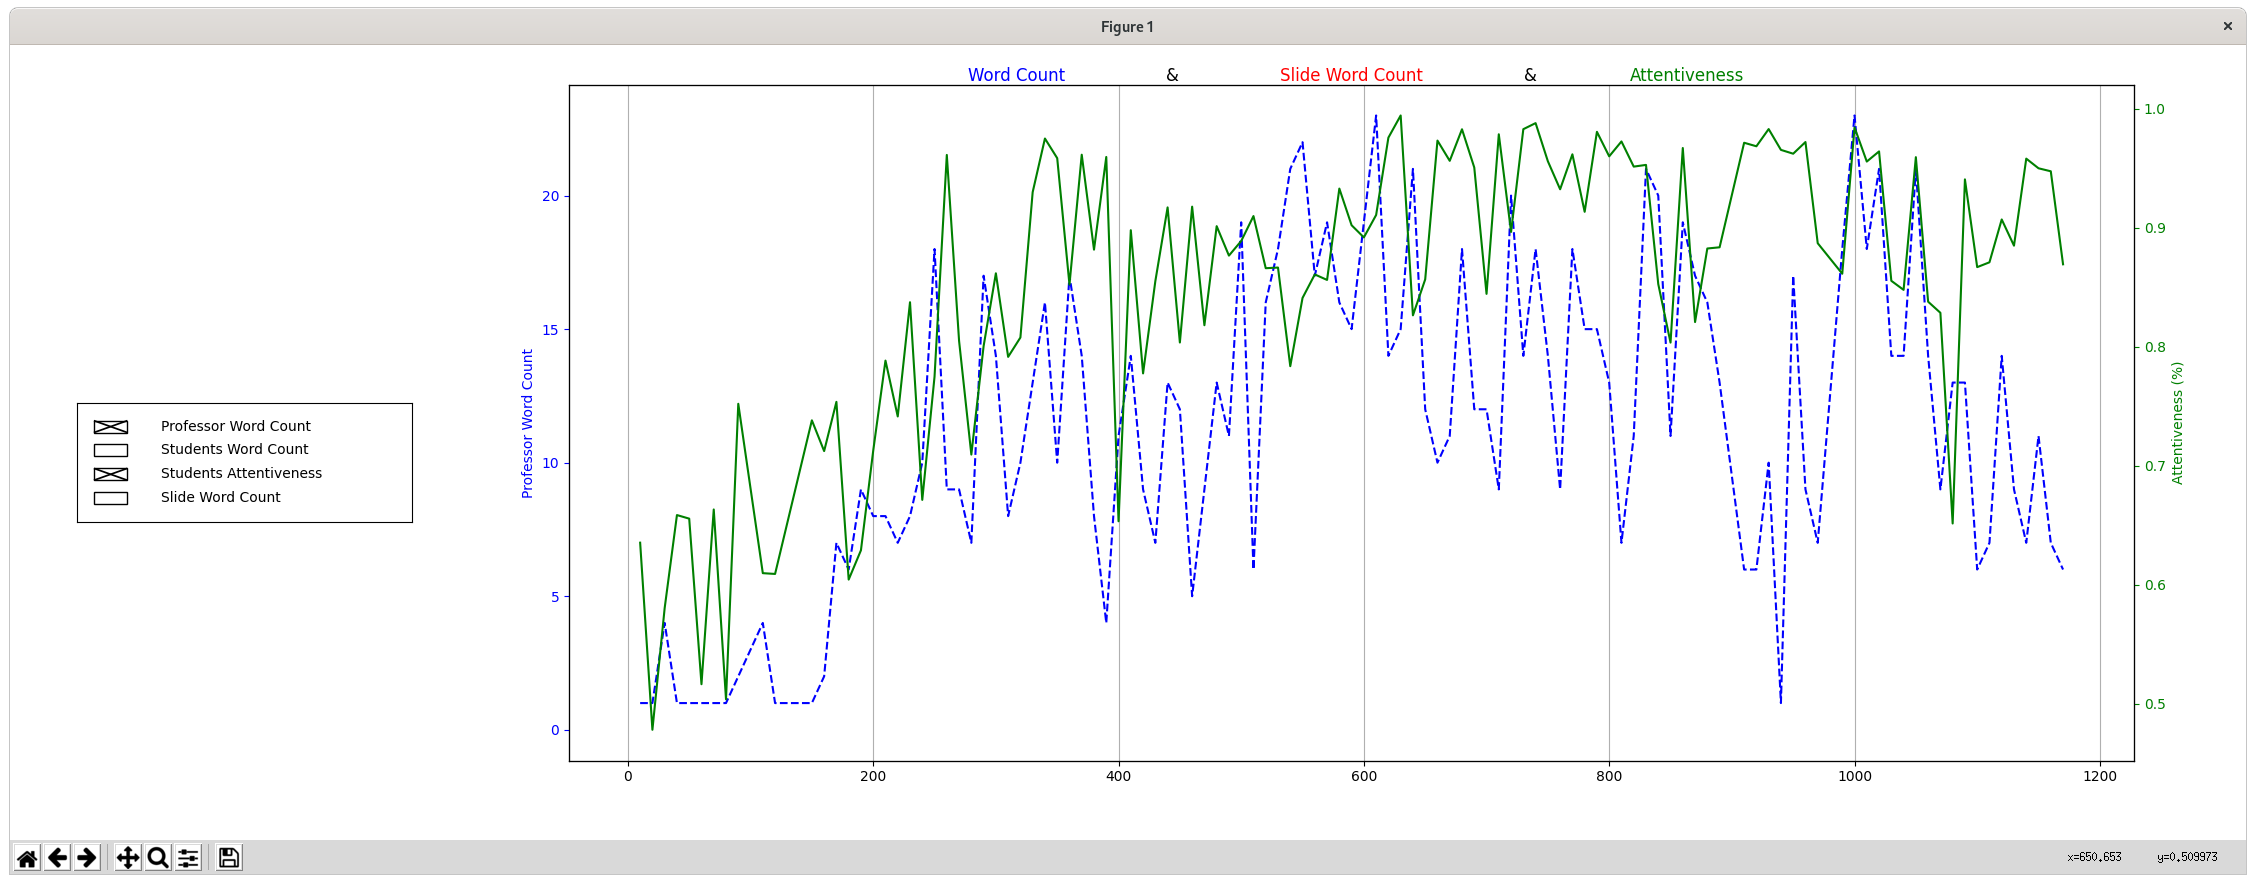
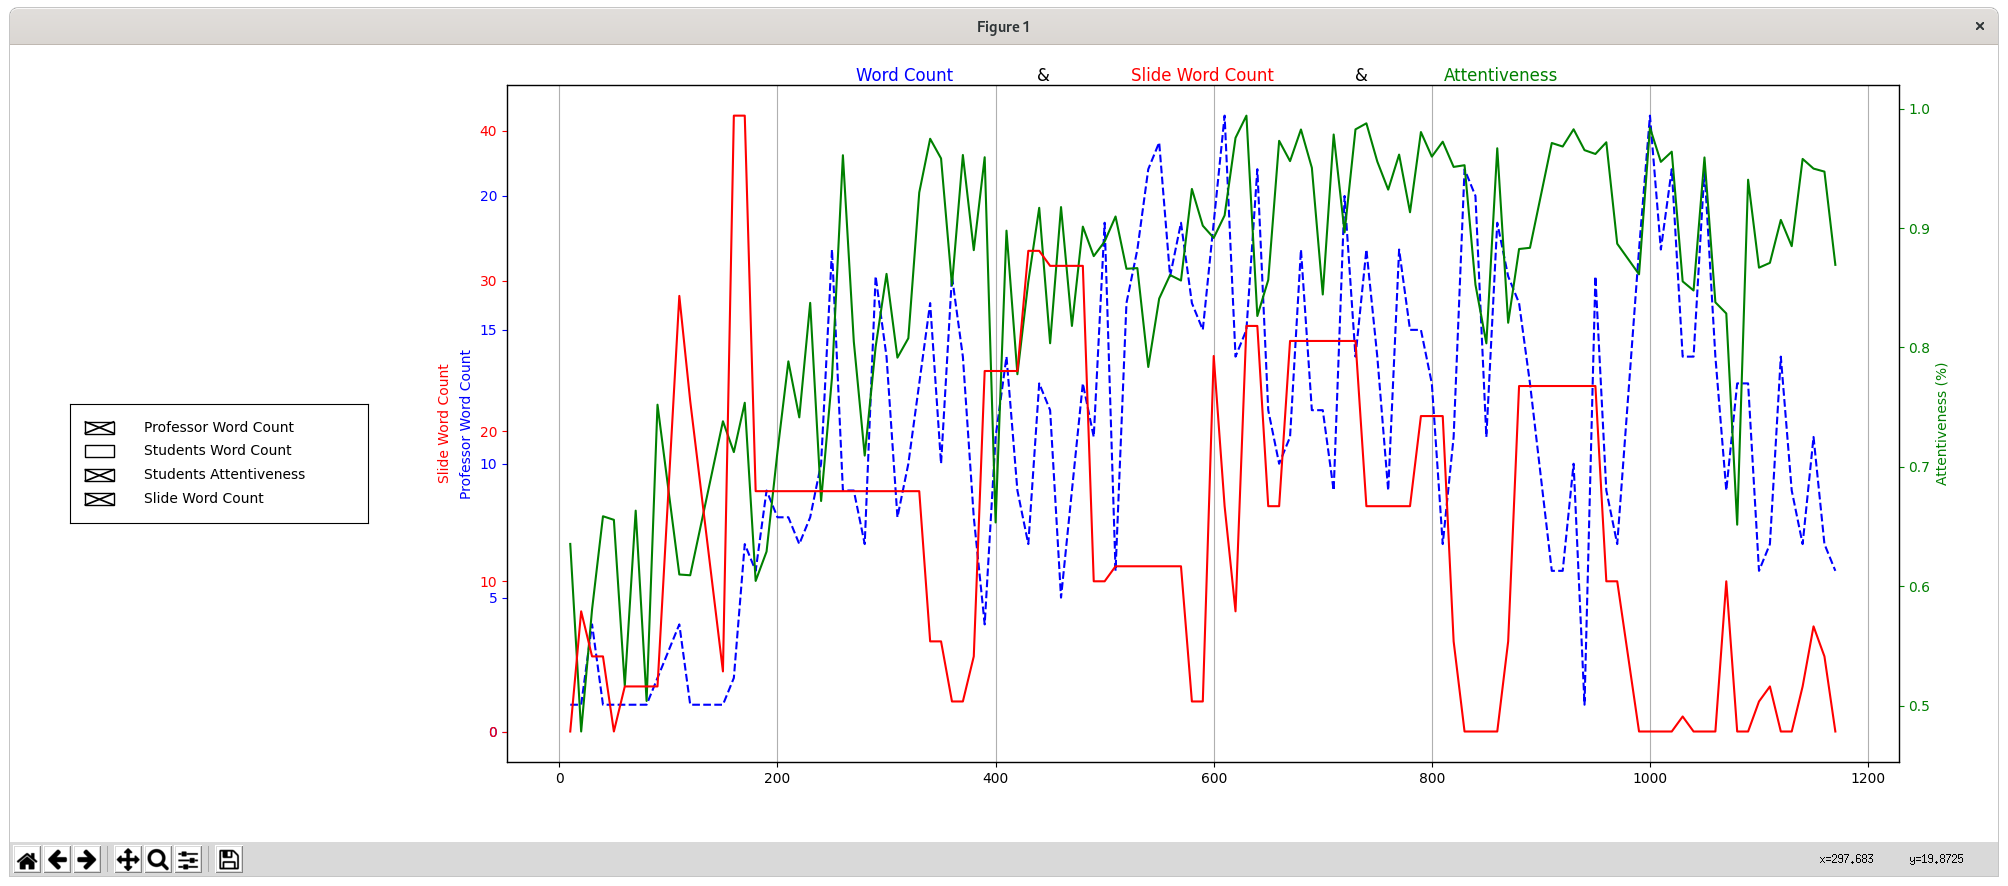
fixed label

diff --git a/src/visualize_data.py b/src/visualize_data.py
@@ -67,6 +67,7 @@ def visualize(file_name):
     P2, = ax1.plot(word_count['Seconds_wpm'], result['BWPM'],color ='blue',label = 'Students', visible = False)
     P3, = ax2.plot(word_count['Seconds_wpm'], word_count['Attentiveness'], color = 'green',label = 'complex', visible = False)
     P4, = ax3.plot(word_count['Seconds_wpm'], word_count['Word_count'], color = 'red',label = 'Slide Word Count', visible = False)
+    ax3.yaxis.labelpad=20
 
     # Check Button
     plt.subplots_adjust(left=0.25, bottom=0.1,right=0.95, top=0.95) 
@@ -95,7 +96,7 @@ def visualize(file_name):
 
         # Ranked Complexity
         if activated[3] == False:
-            ax3.set_ylabel('Slide Word Count',color ='red', visible = False)
+            ax3.set_ylabel('Slide Word Count',color ='red', visible = False, labelpad=20)
             ax3.set_visible(False)
         else:
             ax3.set_ylabel('Slide Word Count',color ='red', visible = True)
